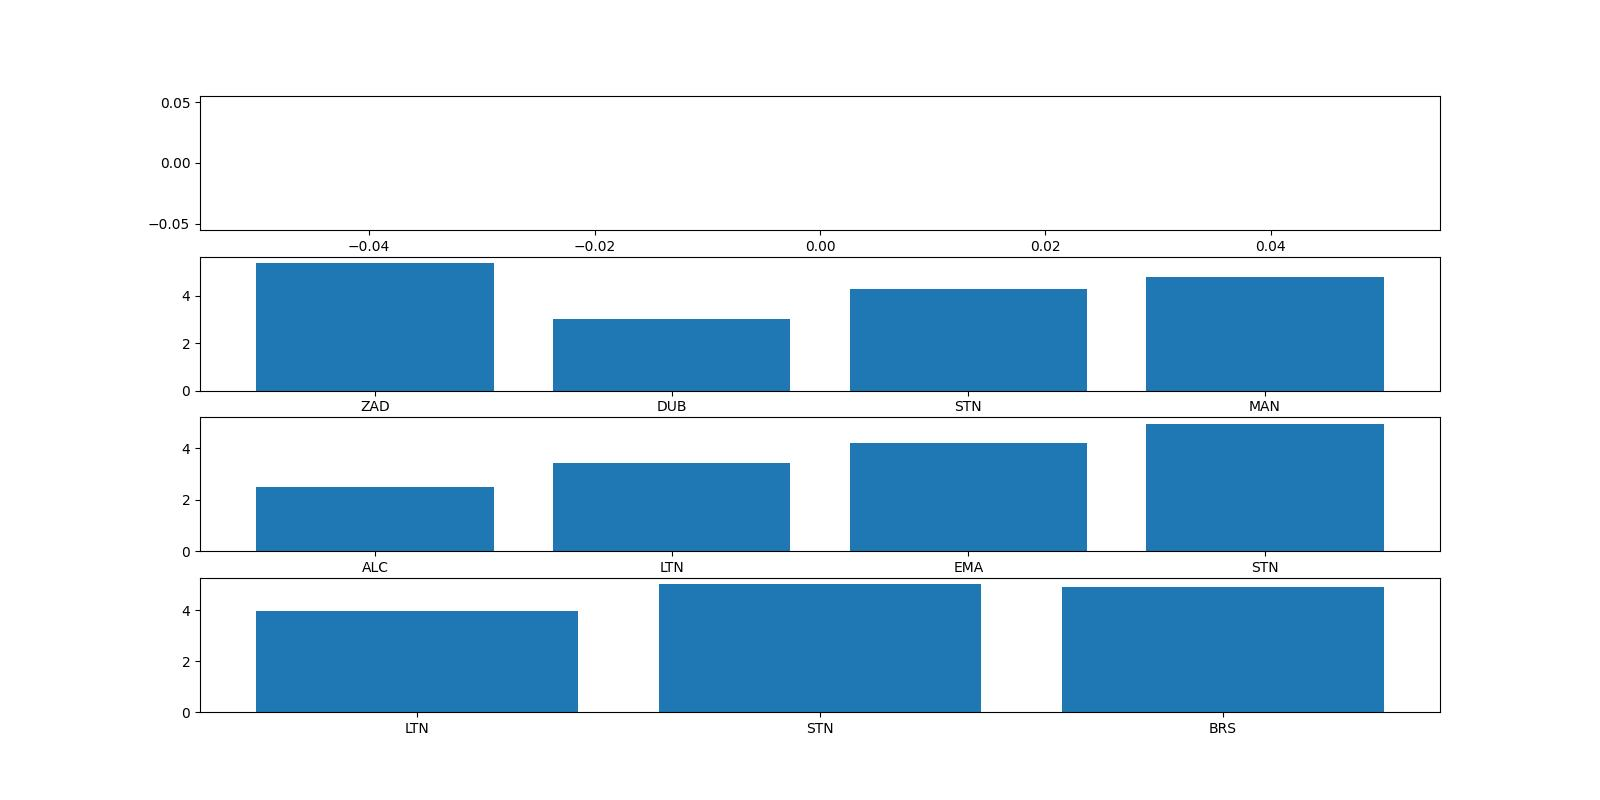
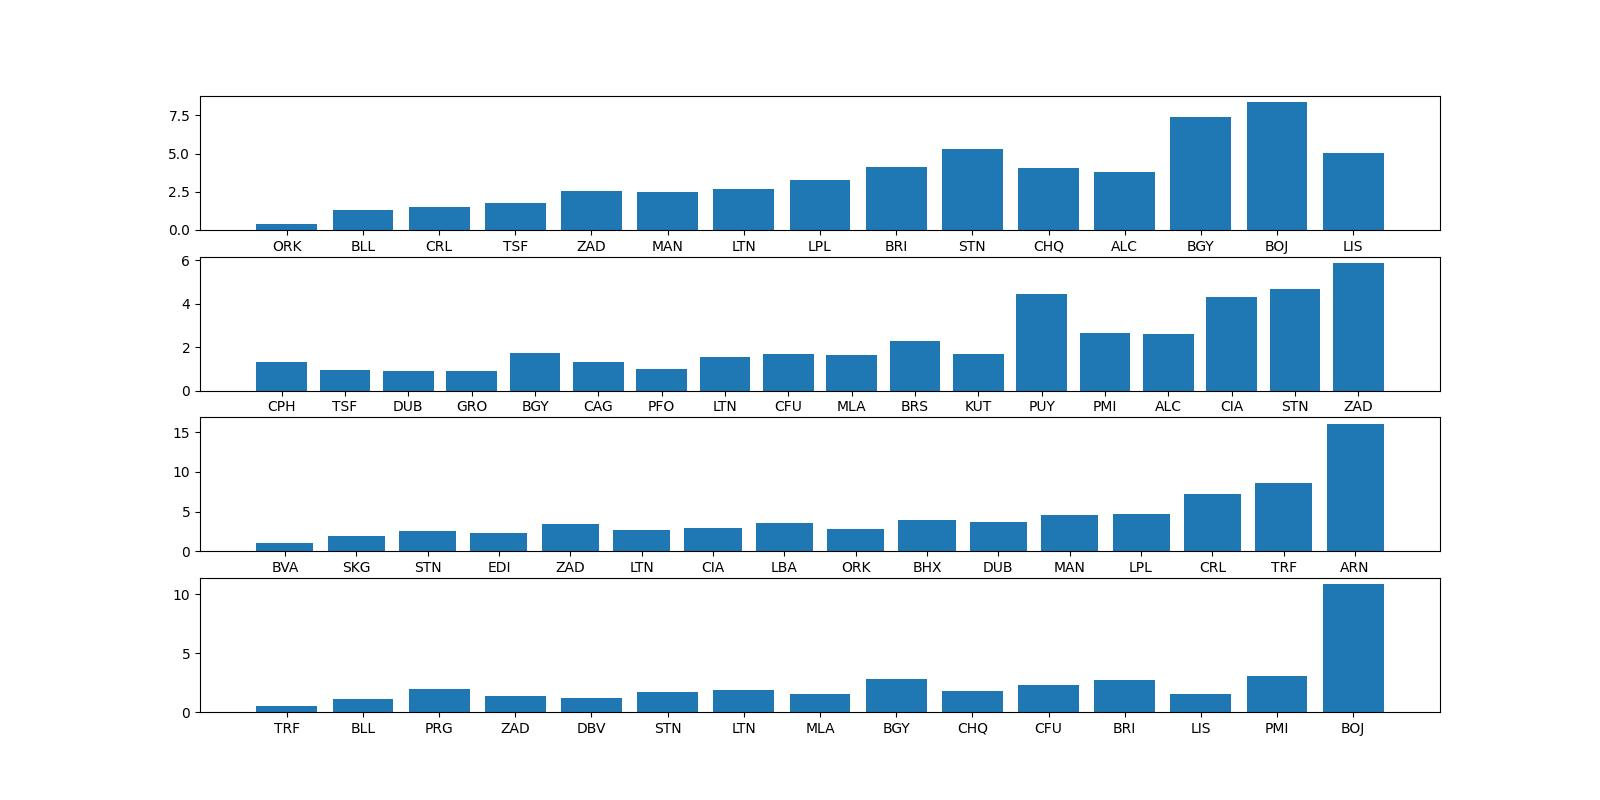
FINAL COMMIT
I hope, ze to juz wszystko

diff --git a/DataAnalyzer.py b/DataAnalyzer.py
@@ -1,16 +1,28 @@
 # Tutaj plik z programem, który analizuje dane
 
-# To co mozna zrobić:
-# --> Gdzie mozna poleciec w danym przedziale cenowym
-# --> Mapa z połączeniami 
-
 import pandas as pd
 import matplotlib.pyplot as plt
+from matplotlib.ticker import MultipleLocator
 import MailSender as MS
 from datetime import datetime, timedelta
+import MapMaker as mp
 
-def analyzer(start_date, receiver):
+def analyzer(start_date, receiver, city):
     """ Funkcja, która analizuje dane oraz korzysta z MailSendera do wysłania raportu do usera """
+
+    POLISH_AIRPORTS = {'POZ': 'Poznań',
+    'GDN': 'Gdańsk',
+    'BZG': 'Bydgoszcz',
+    'KTW': 'Katowice',
+    'KRK': 'Kraków',
+    'LCJ': 'Łódź',
+    'LUZ': 'Lublin',
+    'RZE': 'Rzeszów',
+    'SZY': 'Olsztyn-Mazury',
+    'SZZ': 'Szczecin',
+    'WAW': 'Warszawa (Chopin)',
+    'WRO': 'Wrocław',
+    }
     
     # Wczytywanie danych
     data_path = 'temp_logs/flights_data.csv'
@@ -71,40 +83,89 @@ def analyzer(start_date, receiver):
     third_day = newdf[newdf['data'] == dates[2]]
     fourth_day = newdf[newdf['data'] == dates[3]]
 
-    # <-- Pobawić się nad stylami wykresow
+    # Wykres z liczbą lotów w danym dniu:
+
+    title_font_dict = {
+        'weight': 'bold',
+        'size': 12,
+    }
+    labels_font_dict = {
+    'weight': 'bold'
+    }
+
     x_how_many_flights = [dates[0], dates[1], dates[2], dates[3]]
     y_how_many_flights = [len(first_day), len(second_day), len(third_day), len(fourth_day)]
-    plt.bar(x_how_many_flights, y_how_many_flights)
-    plt.xlabel('Data')
-    plt.ylabel('Ilość lotów danego dnia')
-    plt.title(f'Ilość lotów w dniach od {dates[0]} do {dates[3]}')
+    plt.figure(figsize=(10, 6))
+    bars = plt.bar(x_how_many_flights, y_how_many_flights, color='lightblue', edgecolor='black', width=0.5)
+    for bar in bars:
+        yval = bar.get_height()
+        plt.text(bar.get_x() + bar.get_width()/2, yval + 0.5, int(yval), ha='center', va='bottom', fontsize=10, fontweight='bold')
+    plt.xlabel('Data', fontdict=labels_font_dict)
+    plt.ylabel('Liczba lotów danego dnia', fontdict=labels_font_dict)
+    plt.title(f'Liczba lotów w dniach od {dates[0]} do {dates[3]}', fontdict=title_font_dict)
+    plt.grid(axis='y', linestyle='-.', alpha=0.5, linewidth=0.4)
+    plt.yticks(range(0, max(y_how_many_flights) + 2, 2))
+    plt.margins(x=0.1, y=0.1)
+    plt.tight_layout()
     plt.savefig('attachments/figure_one.jpg')
 
-    # <-- Pobawić się nad stylami wykresow
+    # Wykres z kosztem minuty lotu
 
-    plt.rcParams["figure.figsize"] = (16,8)
-    figure, axis = plt.subplots(4)
+    plt.rcParams["figure.figsize"] = (16, 8)
+    figure, axis = plt.subplots(4, 1, sharex=False)
+    days = [first_day, second_day, third_day, fourth_day]
+    titles = [dates[0], dates[1], dates[2], dates[3]]
+    colors = ['#1f77b4', '#ff7f0e', '#2ca02c', '#d62728']
 
-    X = first_day['miasto']
-    Y = first_day['price_time_ratio']
-    axis[0].bar(X,Y)
+    for i, ax in enumerate(axis):
+        X = days[i]['miasto']
+        Y = days[i]['price_time_ratio']
+        bars = ax.bar(X, Y, color=colors[i], edgecolor='black')
 
-    X = second_day['miasto']
-    Y = second_day['price_time_ratio']
-    axis[1].bar(X,Y)
+        for bar in bars:
+            yval = bar.get_height()
+            ax.text(bar.get_x() + bar.get_width()/2, yval + 0.5, f'{yval:.2f}', ha='center', va='bottom', fontsize=10, fontweight='bold')
 
-    X = third_day['miasto']
-    Y = third_day['price_time_ratio']
-    axis[2].bar(X,Y)
+        ax.set_title(titles[i], fontsize=14, fontweight='bold', loc='left')
+        ax.grid(axis='y', linestyle='--', alpha=0.7, linewidth=0.5)
+        ax.yaxis.set_major_locator(MultipleLocator(2))
 
-    X = fourth_day['miasto']
-    Y = fourth_day['price_time_ratio']
-    axis[3].bar(X,Y)
+    axis[-1].set_xlabel('Destynacja', fontsize=12, fontweight='bold')
+    figure.text(0.04, 0.5, 'Koszt minuty lotu [zł]', va='center', rotation='vertical', fontsize=12, fontweight='bold')
+
+    plt.tight_layout(rect=[0.04, 0.04, 1, 0.96])
+    plt.suptitle(f'Koszt minuty loty w dniach od {dates[0]} do {dates[3]}', fontsize=16, fontweight='bold')
     plt.savefig('attachments/figure_two.jpg')
 
+# <-- Wybieranie 5 najtanszych kierunkow
+
+    newdf['cena'] = newdf['cena'].astype(int)
+    sorted_df = newdf.sort_values(by='cena')
+    lowest_prices = sorted_df.iloc[:5]
+
+    x_city = lowest_prices['nazwa_miasta']
+    y_price = lowest_prices['cena']
+    plt.figure(figsize=(10, 6))
+    bars = plt.bar(x_city, y_price, color='lightblue', edgecolor='black', width=0.5)
+    for bar in bars:
+        yval = bar.get_height()
+        plt.text(bar.get_x() + bar.get_width()/2, yval + 0.5, int(yval), ha='center', va='bottom', fontsize=10, fontweight='bold')
+
+    plt.xlabel('Destynacja', fontdict=labels_font_dict)
+    plt.ylabel('Cena lotu w złotówkach', fontdict=labels_font_dict)
+    plt.title(f'TOP 5 najtańszch kierunków w dniach od {dates[0]} do {dates[3]}', fontdict=title_font_dict)
+    plt.grid(axis='y', linestyle='-.', alpha=0.5, linewidth=0.4)
+    plt.margins(x=0.1, y=0.1)
+    plt.tight_layout()
+    plt.savefig('attachments/figure_three.jpg')
+
+    # Generowanie mapy kierunków w danym dniu
+    mp.map_maker(start_date)
+
     # Tworzenie raportu i wysyłanie maila
-    attachment_paths = ['attachments/figure_one.jpg', 'attachments/figure_two.jpg']
+    attachment_paths = ['attachments/figure_one.jpg', 'attachments/figure_two.jpg','attachments/figure_three.jpg','attachments/mapa_lotnisk.jpg']
+    departure_city = POLISH_AIRPORTS[city]
     
-    body = MS.content_builder(start_date, end_date, max_price_time_value, min_price_time_value, max_price_time_city, min_price_time_city, most_pop_city, av_price, most_pop_airline)
+    body = MS.content_builder(start_date, end_date, max_price_time_value, min_price_time_value, max_price_time_city, min_price_time_city, most_pop_city, av_price, most_pop_airline, departure_city)
 
     MS.mail_creator(receiver, body, attachment_paths)

diff --git a/app.py b/app.py
@@ -4,11 +4,8 @@ import pandas as pd
 import os
 import DataAnalyzer as ds
 import matplotlib
-import MapMaker as mm
-matplotlib.use('agg')
 
-# --> Zrobić coś jak strona sie wypierdala! --> Tzn jakieś ładne "Ops, we're sorry"
-# --> Zrobić coś, jak strona się ładuje, zeby to ladnie wyglądało
+matplotlib.use('agg')
 
 app = Flask(__name__)
 
@@ -18,24 +15,29 @@ def home():
 
 @app.route('/szukaj_tanich_lotow', methods=['GET','POST'])
 def szukaj_lotow():
-    if request.method == 'POST':
-        dep_airport = request.form.get('departure') # Lotnisko wylotu
-        date_in = request.form.get('departureDate') # Data wylotu
-        date_out = request.form.get('returnDate') # Data powrotu
-        trip_type = request.form.get('tripType') # Czy podroz w jedna czy dwie strony
-        mail_owner = request.form.get('mail_sender') # Mail
+    try:
+        if request.method == 'POST':
+            dep_airport = request.form.get('departure') # Lotnisko wylotu
+            date_in = request.form.get('departureDate') # Data wylotu
+            date_out = request.form.get('returnDate') # Data powrotu
+            trip_type = request.form.get('tripType') # Czy podroz w jedna czy dwie strony
+            mail_owner = request.form.get('mail_sender') # Mail
 
-        if trip_type == 'false':
-            flights = FS.azair_oneway(dep_airport, date_in)
-            all_flights = FS.azair_oneway_multiple_days(dep_airport, date_in, 3)
-            df = pd.DataFrame(all_flights) #<-- Zakomentowane, zeby nie tworzyc ciagle nowej csv jak nie jest to konieczne
-            df.to_csv('temp_logs/flights_data.csv', index=False)
-            #ds.analyzer(date_in, mail_owner)
-            #mm.map_maker(date_in)
-            return render_template('wyniki_oneway.html', dziennik_lotow=flights)
-        elif trip_type == 'true':
-            flights = FS.azair_return(dep_airport, date_in, date_out)
-            return render_template('wyniki_return.html', dziennik_lotow=flights)
+            if trip_type == 'false':
+                flights = FS.azair_oneway(dep_airport, date_in)
+                all_flights = FS.azair_oneway_multiple_days(dep_airport, date_in, 3)
+                if mail_owner:
+                    df = pd.DataFrame(all_flights)
+                    df.to_csv('temp_logs/flights_data.csv', index=False)
+                    ds.analyzer(date_in, mail_owner,dep_airport)
+
+                return render_template('wyniki_oneway.html', dziennik_lotow=flights)
+            elif trip_type == 'true':
+                flights = FS.azair_return(dep_airport, date_in, date_out)
+                return render_template('wyniki_return.html', dziennik_lotow=flights)
+    except:
+        if request.method == 'POST':
+            return render_template('index_error.html')
 
 if __name__ == '__main__':
     app.run(port=8000, debug=True)

diff --git a/MailSender.py b/MailSender.py
@@ -6,9 +6,9 @@ import smtplib
 import mimetypes
 import os
 
-def content_builder(start_date,end_date,max_price_time_value,min_price_time_value,max_price_time_city, min_price_time_city, most_pop_city,av_price, most_pop_airline):
+def content_builder(start_date,end_date,max_price_time_value,min_price_time_value,max_price_time_city, min_price_time_city, most_pop_city,av_price, most_pop_airline, city):
     body = f"""
-    Cześć, widzę, że wyszukiwałeś loty w dniu {start_date}. Jeżeli możesz pozwolić sobie na elastyczność, poniżej przedstawiamy szczegółowy raport na temat lotów w tym i trzech kolejnych dniach!
+    Cześć, widzę, że wyszukiwałeś loty z miasta: {city} w dniu {start_date}. Jeżeli możesz pozwolić sobie na elastyczność, poniżej przedstawiamy szczegółowy raport na temat lotów w tym i trzech kolejnych dniach!
 
     \nNajpopularniejszym kierunkiem w dniach od {start_date} do {end_date} jest: {most_pop_city},
     Najmniej kosztuje minuta lotu do: {min_price_time_city} i wynosi ona: {min_price_time_value} zł,

diff --git a/MapMaker.py b/MapMaker.py
@@ -37,5 +37,5 @@ def map_maker(date_in_mm):
     plt.title(f'Możliwe kierunki w dniu {date_in_mm}')
 
     #zapisuje mape do jpg
-    plt.savefig('static/mapa_lotnisk.jpg', format='jpg', dpi=300)
+    plt.savefig('attachments/mapa_lotnisk.jpg', format='jpg', dpi=300)
 
